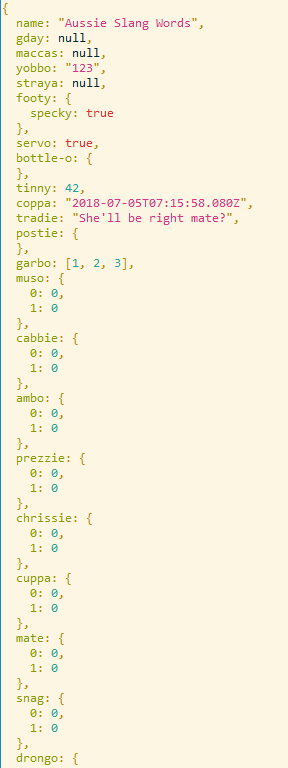
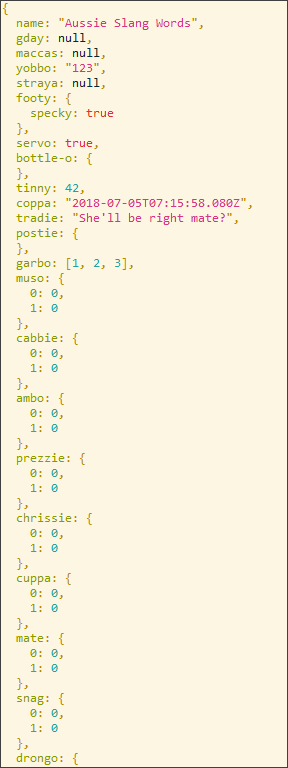
Fixed ls image

Changed region(s): [[0.9688, 0.0, 1.0, 1.0], [0.0, 0.0, 0.0312, 1.0]]

diff --git a/README.md b/README.md
@@ -335,7 +335,7 @@ See my [other projects on NPM](https://www.npmjs.com/~grantcarthew).
 [example-probe-image]: https://cdn.rawgit.com/grantcarthew/node-console-probe/b7f56e39/images/aussieslang-probe.png
 [example-json-image]: https://cdn.rawgit.com/grantcarthew/node-console-probe/b7f56e39/images/aussieslang-json.png
 [example-yaml-image]: https://cdn.rawgit.com/grantcarthew/node-console-probe/b7f56e39/images/aussieslang-yaml.png
-[example-ls-image]: https://cdn.rawgit.com/grantcarthew/node-console-probe/b7f56e39/images/aussieslang-ls.png
+[example-ls-image]: https://cdn.rawgit.com/grantcarthew/node-console-probe/4ea69e0c/images/aussieslang-ls.png
 [json-stringify-url]: https://developer.mozilla.org/en-US/docs/Web/JavaScript/Reference/Global_Objects/JSON/stringify
 [prettyjson-url]: https://www.npmjs.com/package/prettyjson
 [json-colorizer-url]: https://www.npmjs.com/package/json-colorizer
